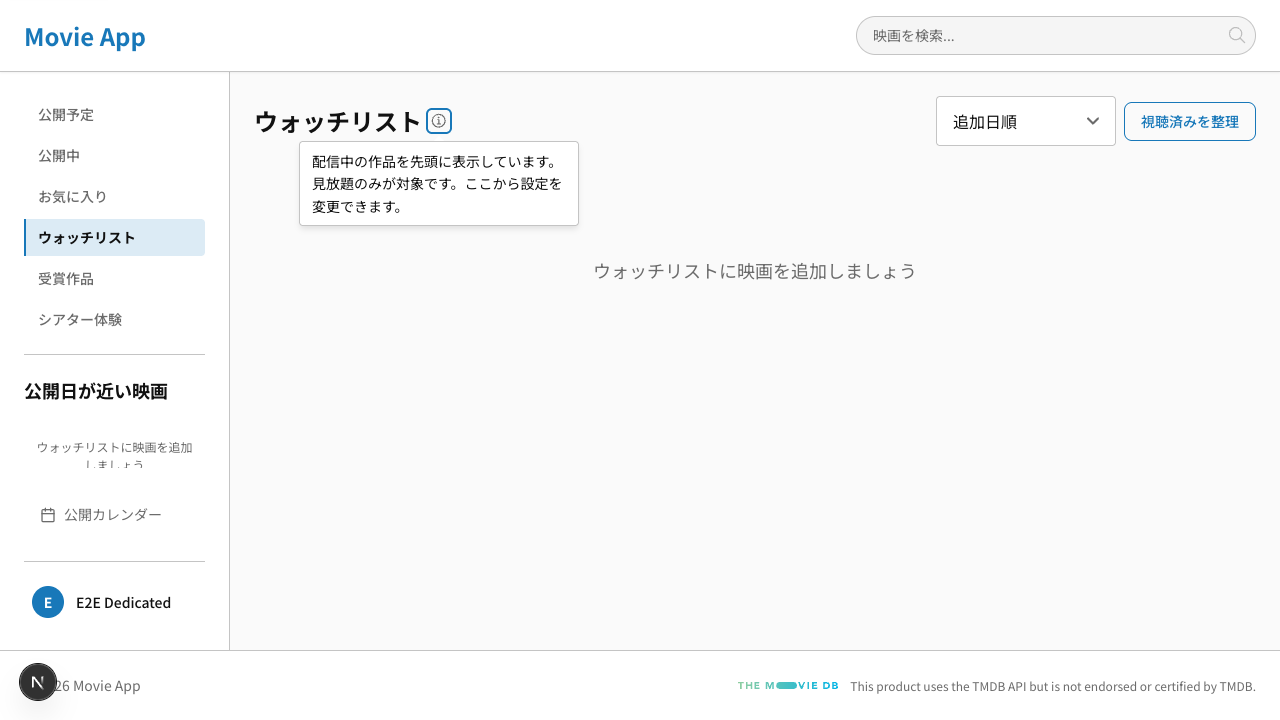
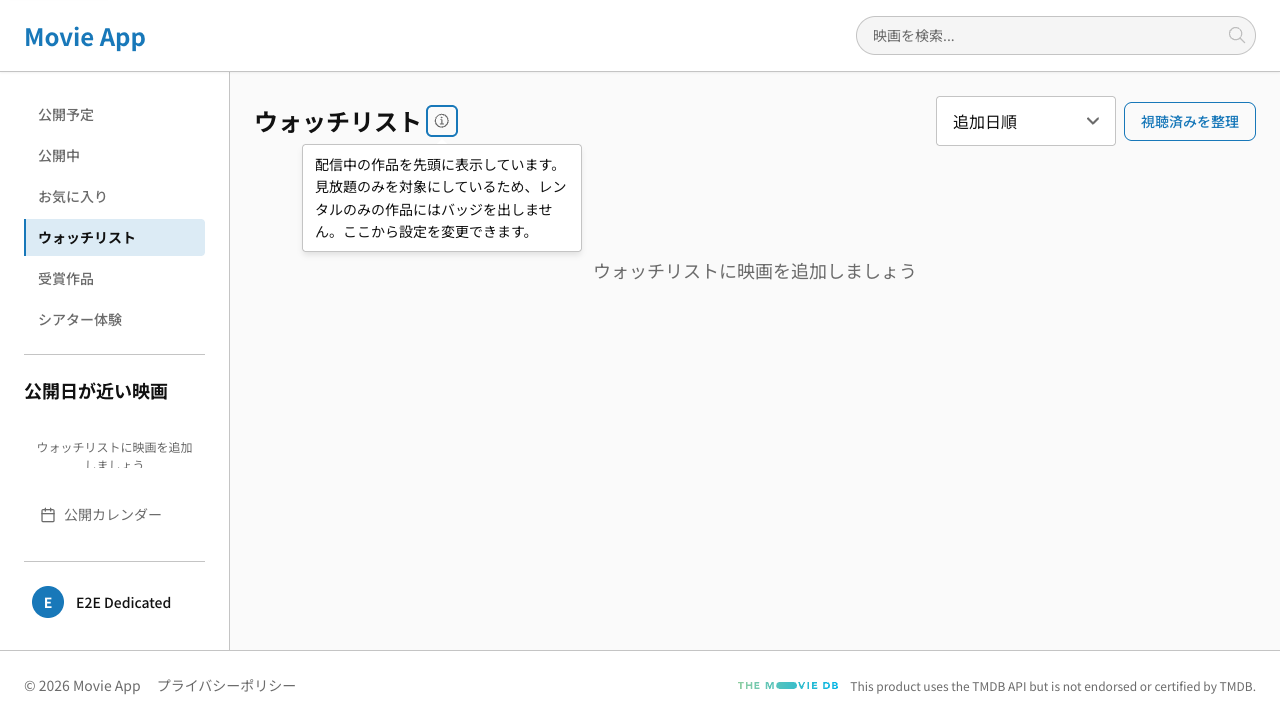
fix(security): 本番ビルドで script-src の enforce 違反が出る
zod v4 は JIT を使えるかを new Function("") で試す。本番の CSP に
'unsafe-eval' は無い（dev だけ付く）ので必ず throw し、zod 自身が catch して
非JIT経路へ落ちる。機能上の実害は無いが、enforce の違反が毎ロード報告される。
本番は report-uri /api/csp-report を付けているので、公開後はここへ流れ続ける。

zod 自身もソースのコメントでこの問題を認識している
（"strict CSPs report the caught `new Function` as a securitypolicyviolation
even though the throw is swallowed"）。

<head> のインラインスクリプトで globalThis.__zod_globalConfig.jitless を
先に立てて probe ごと止める。z.config() を普通のモジュールに書いても
間に合わない（allowsEval が読まれるのは z.object() の構築時で、
src/schema/*.ts はトップレベルでスキーマを作るため）。

実測（本番ビルド / chromium / 未認証）:

    /movies/now-showing   1件 → 0件
    /search               0件 → 0件
    /auth/signin          2件 → 1件

signin に残る1件は zod ではない。Next.js 同梱の crypto-browserify
ポリフィルを読むチャンクで、原因も対処も別件。

サーバーには影響しない。置くのはブラウザの globalThis だけなので、
eval が許されるサーバー側の zod は JIT を使ったまま。

回帰テストは e2e/security/cspEval.spec.ts。インラインスクリプトを外すと
2本とも落ちることを確認。

Closes #1099

Changed region(s): [[0.2188, 0.1528, 0.4375, 0.3361], [0.0, 0.9167, 0.0625, 0.9778], [0.125, 0.9472, 0.2188, 0.9778]]

diff --git a/e2e/security/cspEval.spec.ts b/e2e/security/cspEval.spec.ts
@@ -1,0 +1,78 @@
+/**
+ * `script-src` の enforce 違反を監視する E2Eテスト（#1099）
+ *
+ * ## なぜ E2E でしか見られないか
+ *
+ * `'unsafe-eval'` は **dev にだけ**付く（`cspDirectives.mjs`）。
+ * dev サーバーでは違反が起きないので、**本番ビルドで実際にページを開くまで
+ * 分からない**。jest でも検出できない（CSP はブラウザが適用する）。
+ *
+ * ## 何を守るか
+ *
+ * zod v4 は JIT を使えるかを `new Function("")` で試す。本番の CSP に当たって
+ * throw し、zod 自身が catch して非JIT経路へ落ちるので**機能上の実害は無い**が、
+ * **enforce の違反が毎ロード報告される**（`report-uri /api/csp-report`）。
+ *
+ * `<head>` のインラインスクリプトで `globalThis.__zod_globalConfig.jitless` を
+ * 先に立てて probe ごと止めている（`src/lib/security/zodJitless.ts`）。
+ * この仕掛けが外れる・チャンクより後ろへ動くと、違反が戻ってくる。
+ *
+ * ## ⚠ `/auth/signin` は対象にしない
+ *
+ * あちらには zod とは**別の発生源**がある。Next.js 同梱の
+ * `crypto-browserify` ポリフィル（`vm-browserify` を含む）を読むチャンクで、
+ * 原因も対処も別件。どのモジュールが Node の `crypto` を client で import
+ * しているかは未特定。0件にはならないので、ここで見ると誤検知になる。
+ */
+
+import { expect, test } from '@playwright/test';
+
+import { collectCspViolations, readCspViolations } from '../helpers/csp';
+
+/** zod を読むが、ポリフィル側の発生源が無いページ */
+const PATHS = ['/movies/now-showing', '/search?query=matrix'] as const;
+
+test.describe('script-src の enforce 違反', () => {
+  test.describe.configure({ timeout: 90000 });
+
+  test.use({ storageState: { cookies: [], origins: [] } });
+
+  for (const path of PATHS) {
+    test(`${path} で eval が遮断されない`, async ({ page }) => {
+      await collectCspViolations(page);
+
+      await page.goto(path);
+      // ⚠ 読み込み途中で測らない。zod のスキーマはチャンクの評価時に
+      // 作られるので、待たずに読むと「まだ起きていないだけ」で緑になる
+      await expect(page.locator('h1').first()).toBeAttached({ timeout: 20000 });
+      await page.waitForLoadState('networkidle');
+
+      // 1. 仕掛けが効いていること。これが false なら下の0件は意味を持たない
+      const jitless = await page.evaluate(
+        () =>
+          (globalThis as unknown as Record<string, { jitless?: boolean }>)
+            .__zod_globalConfig?.jitless ?? null,
+      );
+      expect(
+        jitless,
+        'globalThis.__zod_globalConfig.jitless が立っていない。' +
+          'layout.tsx のインラインスクリプトがチャンクより後ろへ動いた可能性',
+      ).toBe(true);
+
+      // 2. enforce の違反が無いこと
+      const violations = await readCspViolations(page);
+      const blockedEval = violations.filter(
+        (v) => v.disposition === 'enforce' && v.blockedURI === 'eval',
+      );
+
+      expect(
+        blockedEval,
+        `eval が CSP で遮断された。新しい依存が JIT を試している可能性がある:\n${JSON.stringify(
+          blockedEval,
+          null,
+          2,
+        )}`,
+      ).toEqual([]);
+    });
+  }
+});

diff --git a/src/lib/security/zodJitless.ts b/src/lib/security/zodJitless.ts
@@ -1,0 +1,64 @@
+/**
+ * zod の JIT 可否判定を抑止するブートストラップ（#1099）
+ *
+ * ## なぜ要るか
+ *
+ * zod v4 は JIT（`new Function`）が使えるかを**実際に試して**判定する。
+ *
+ * ```ts
+ * // node_modules/zod/src/v4/core/util.ts
+ * export const allowsEval = cached(() => {
+ *   if (globalConfig.jitless) return false;
+ *   ...
+ *   try { const F = Function; new F(""); return true } catch { return false }
+ * });
+ * ```
+ *
+ * 本番の CSP に `'unsafe-eval'` は無い（`cspDirectives.mjs`。dev だけ付く）ので、
+ * ブラウザでは必ず throw する。zod は catch して非JIT経路へ落ちるため**機能上の
+ * 実害は無い**が、**enforce の CSP 違反が毎ロード報告される**。
+ * 本番は `report-uri /api/csp-report` を付けているので、公開後はここへ流れ続ける。
+ *
+ * zod 自身もこの問題をソースのコメントで認識している
+ * （"strict CSPs report the caught `new Function` as a `securitypolicyviolation`
+ * even though the throw is swallowed"）。
+ *
+ * ## なぜインラインスクリプトなのか
+ *
+ * `z.config({ jitless: true })` を普通のモジュールに書いても**間に合わない**。
+ * `allowsEval.value` が読まれるのは `z.object()` の構築時で、`src/schema/*.ts`
+ * はモジュールのトップレベルでスキーマを作る。設定より先に評価される。
+ *
+ * zod は `globalThis.__zod_globalConfig` を**先に置いておく**経路を用意しており
+ * （`core.ts` のコメント）、CJS / ESM のどちらから読まれても共有される。
+ * `<head>` のインラインスクリプトはチャンクより先に走るのでこれが使える。
+ *
+ * ## サーバーには影響しない
+ *
+ * 置くのはブラウザの `globalThis` だけ。Node 側は別の realm なので、
+ * サーバーの zod は JIT を使ったまま。eval が許されるサーバーで高速パスを
+ * 捨てずに済む。
+ *
+ * ## Trusted Types について
+ *
+ * テーマ初期化・Consent Mode と同じく SSR で静的に埋め込むインラインスクリプトで、
+ * DOM 注入 sink ではないため `require-trusted-types-for 'script'` の対象外。
+ * `script-src 'unsafe-inline'` 側で許可される。
+ */
+
+/** zod が参照するグローバル設定のキー（`node_modules/zod/src/v4/core/core.ts`） */
+const ZOD_GLOBAL_CONFIG_KEY = '__zod_globalConfig';
+
+/**
+ * `<head>` に埋め込むブートストラップスクリプト
+ *
+ * ⚠ **チャンクより先に実行されること**が前提。`<head>` の最初に置く。
+ * 既に設定があれば壊さないよう、プロパティを足す形にする。
+ */
+export function buildZodJitlessScript(): string {
+  return (
+    `(function(){try{var g=globalThis;` +
+    `var c=g.${ZOD_GLOBAL_CONFIG_KEY}||(g.${ZOD_GLOBAL_CONFIG_KEY}={});` +
+    `c.jitless=true}catch(e){}})()`
+  );
+}

diff --git a/src/lib/security/zodJitless.test.ts b/src/lib/security/zodJitless.test.ts
@@ -1,0 +1,61 @@
+/**
+ * zodJitless テスト
+ *
+ * ⚠ **CSP 違反が実際に消えるかはここでは見られない。** CSP はブラウザが
+ * 適用するもので、`'unsafe-eval'` が付かないのは本番ビルドだけ。
+ * そちらは `e2e/security/cspEval.spec.ts` が見る。
+ *
+ * ここで固定するのは**スクリプトの中身**だけ。
+ */
+
+import { buildZodJitlessScript } from './zodJitless';
+
+describe('buildZodJitlessScript', () => {
+  it('zod が読むキーに jitless を立てる', () => {
+    const script = buildZodJitlessScript();
+
+    // zod 側のキー名（node_modules/zod/src/v4/core/core.ts）。
+    // ここがずれると黙って効かなくなる
+    expect(script).toContain('__zod_globalConfig');
+    expect(script).toContain('jitless=true');
+  });
+
+  /**
+   * 実際に評価して、グローバルへ設定が載ることを見る。
+   * 文字列の部分一致だけだと、構文が壊れていても通ってしまう
+   */
+  it('評価するとグローバルに設定が載る', () => {
+    const scope = {} as Record<string, { jitless?: boolean }>;
+    new Function('globalThis', buildZodJitlessScript())(scope);
+
+    expect(scope.__zod_globalConfig).toEqual({ jitless: true });
+  });
+
+  /**
+   * 既に設定がある状態で上書きしないこと。
+   * zod は他の設定（localeError など）も同じオブジェクトに持つ
+   */
+  it('既存の設定を壊さない', () => {
+    const scope = {
+      __zod_globalConfig: { customError: 'keep' },
+    } as unknown as Record<string, Record<string, unknown>>;
+    new Function('globalThis', buildZodJitlessScript())(scope);
+
+    expect(scope.__zod_globalConfig).toEqual({
+      customError: 'keep',
+      jitless: true,
+    });
+  });
+
+  /**
+   * ⚠ **例外を外へ出さないこと。** `<head>` の最初に置くので、ここで
+   * 落ちるとテーマ初期化も Consent Mode も走らない
+   */
+  it('globalThis が触れなくても例外を投げない', () => {
+    const frozen = Object.freeze({});
+
+    expect(() =>
+      new Function('globalThis', buildZodJitlessScript())(frozen),
+    ).not.toThrow();
+  });
+});

diff --git a/src/app/layout.tsx b/src/app/layout.tsx
@@ -8,6 +8,7 @@ import { AppToastProvider } from '@/components/providers/toastProvider';
 import { ThemeProvider } from '@/components/providers/themeProvider';
 import { APP_NAME } from '@/constants/app';
 import { CookieConsentBanner } from '@/features/cookieConsent/component/cookieConsentBanner/cookieConsentBanner';
+import { buildZodJitlessScript } from '@/lib/security/zodJitless';
 import {
   buildConsentBootstrapScript,
   getGaMeasurementId,
@@ -34,10 +35,19 @@ export default function RootLayout({
   // 文字列の組み立てはサーバー安全な utils/analytics から直接行う
   const consentBootstrapScript =
     getGaMeasurementId() === null ? null : buildConsentBootstrapScript();
+  const zodJitlessScript = buildZodJitlessScript();
 
   return (
     <html lang='ja' suppressHydrationWarning>
       <head>
+        {/*
+          ⚠ **チャンクより先に置くこと**（#1099）。zod は JIT を使えるかを
+          `new Function("")` で試すので、本番の CSP（'unsafe-eval' 無し）に
+          当たって enforce の違反が毎ロード報告される。スキーマは
+          src/schema/*.ts のトップレベルで作られるため、普通のモジュールから
+          z.config() を呼んでも間に合わない。理由は lib/security/zodJitless.ts
+        */}
+        <script dangerouslySetInnerHTML={{ __html: zodJitlessScript }} />
         {/* ストレージキーは STORAGE_KEYS.THEME ('movie-app:theme') と同期すること */}
         {/* CSP は script-src 'unsafe-inline' を許容するため nonce は付与しない */}
         {/*
